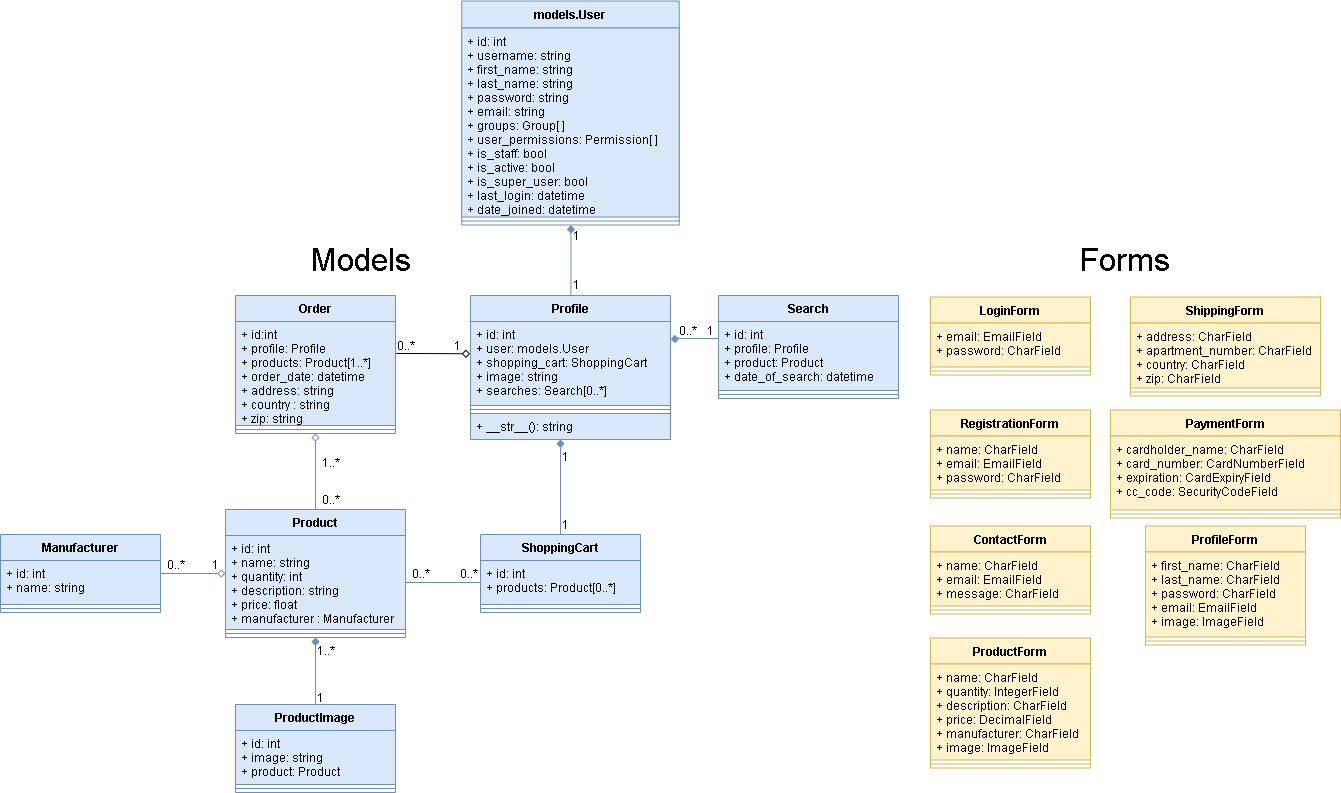
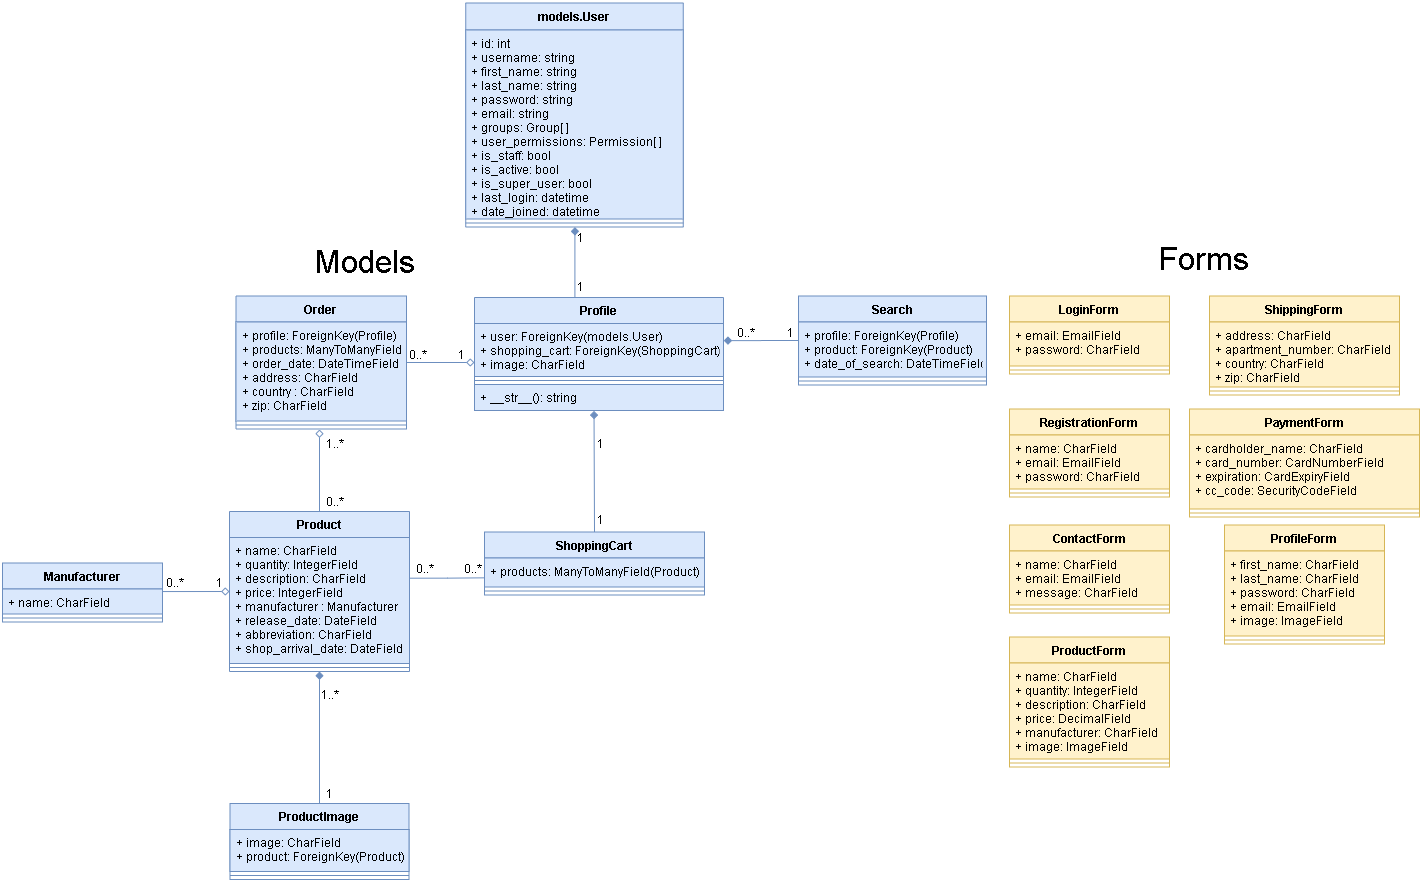
Updated class diagram to fit with our models

Changed region(s): [[0.1529, 0.0, 1.0, 0.9685], [0.1529, 0.8777, 0.3057, 1.0], [0.0, 0.6356, 0.1223, 0.7869]]

diff --git a/captain_console/product/migrations/0002_product_abbreviation.py b/captain_console/product/migrations/0002_product_abbreviation.py
@@ -1,0 +1,18 @@
+# Generated by Django 3.0.5 on 2020-05-04 13:55
+
+from django.db import migrations, models
+
+
+class Migration(migrations.Migration):
+
+    dependencies = [
+        ('product', '0001_initial'),
+    ]
+
+    operations = [
+        migrations.AddField(
+            model_name='product',
+            name='abbreviation',
+            field=models.CharField(blank=True, default='', max_length=20),
+        ),
+    ]
